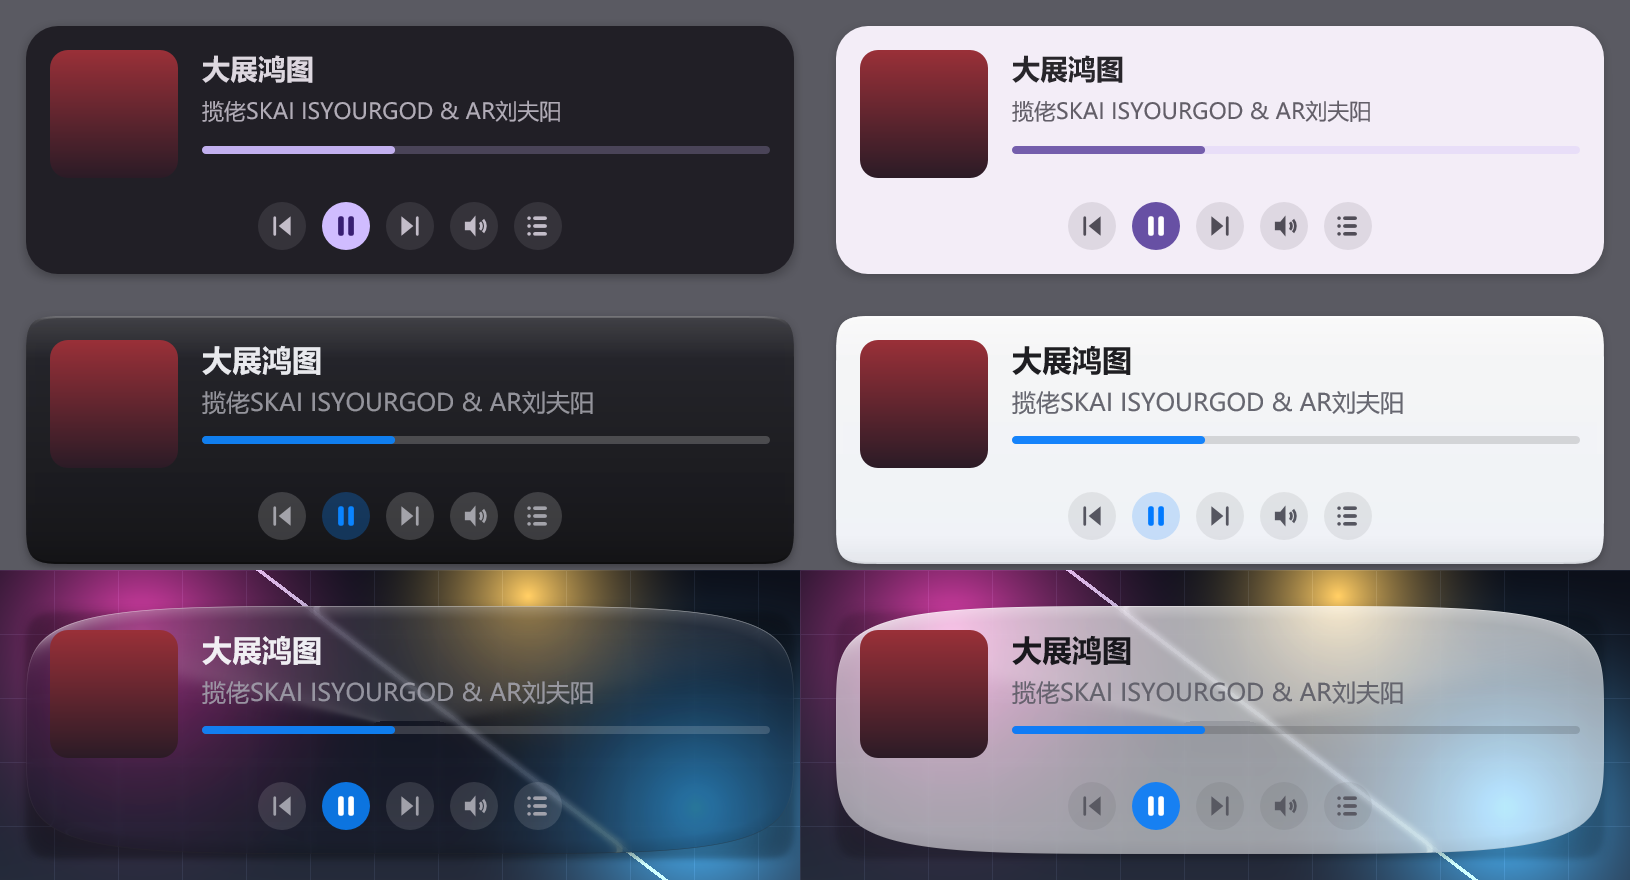
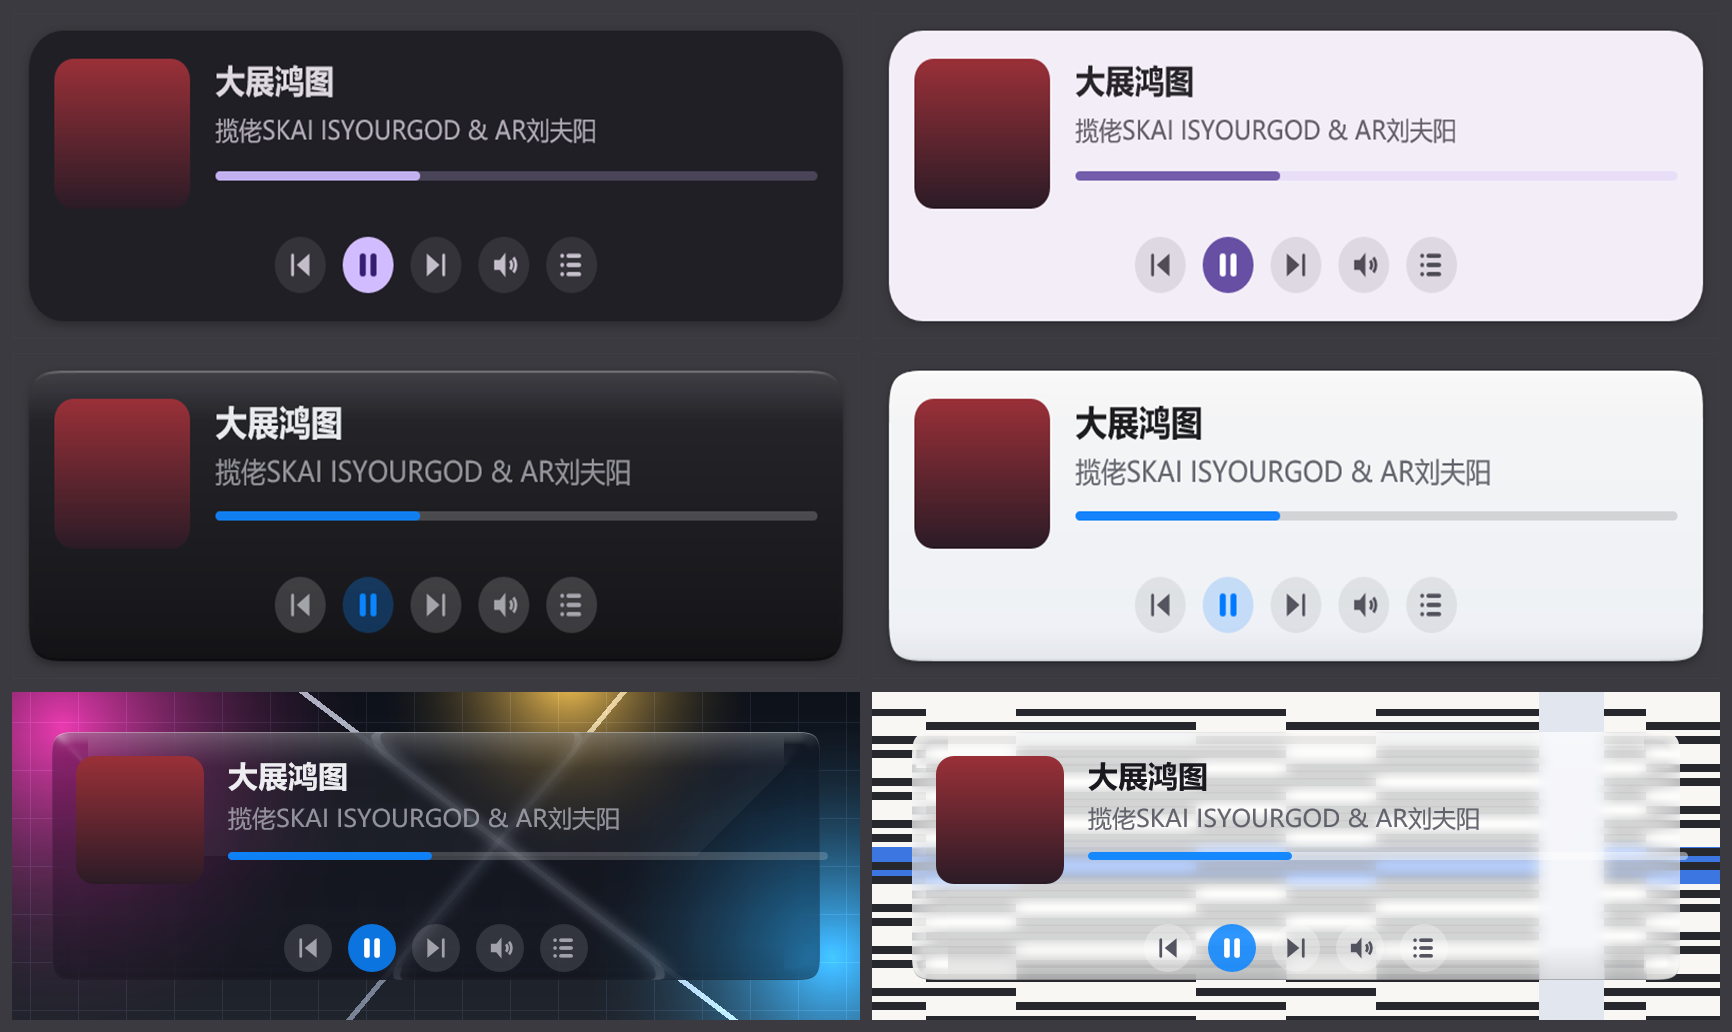
floating clouds: Liquid Glass is a panel, not a pill (squircle ignored the radius)
The glass card rendered as a stadium: straight edges were nowhere to be seen and
the ends were semicircles. The cause was geometric, not a taste setting.
glass_lens.h::shape_at() implemented the "squircle" as a single superellipse over
the whole half-extents (|X|^5 + |Y|^5 = 1) and never read its `rad` argument, so
on a 400x140 card the curvature ran along the entire side and the silhouette was
an ellipse. glass_card.h already did it correctly (straight edges, superellipse
arcs confined to the radius), which also meant the lens and the static fallback
were drawing two different shapes.

shape_at() now uses the corner-radius form: flat edges, and |u|^n + |v|^n = 1
inside the rad x rad corner box, with the first-order distance and normal taken
from that implicit surface. The two modules now agree on the silhouette.

The glass corner is 18px (was 28): the card is 140px tall, so 28 read as half the
height. 18 keeps it a panel - macOS uses ~10-12 for windows and roughly that for
Dock tiles; the Dock is not a stadium either.

Transparency is untouched: the material is still the captured backdrop, blurred
and refracted by the edge band, with polarity measured from the backdrop
(9.18:1 dark / 10.49:1 bright in the probe's runs).

Previews regenerated from the same probe, so imgs/LiquidGlass/* and the hero now
show the panel.

diff --git a/foo_floating_clouds/skin_tokens.h b/foo_floating_clouds/skin_tokens.h
@@ -317,7 +317,9 @@ constexpr SkinTokens liquid_glass_skin = {
     0x000000, 0.40f,                 // card_rim_shade   lens needs a hard rim)
     0xFFFFFF, 0.16f, 0.30f,          // card_gloss
     0x000000, 0.12f, 0.82f,          // card_depth
-    28.0f,                           // corner_card
+    18.0f,                           // corner_card (a panel, not a pill: the
+                                     //  Dock and macOS windows sit well under
+                                     //  half the height)
     8.0f,                            // shadow_inset
     0.26f, 4,                        // ambient shadow
     0.14f, 1,                        // contact shadow
@@ -351,57 +353,3 @@ constexpr SkinTokens liquid_glass_skin = {
     0.90f,                           // lens_specular
 };
 
-// Liquid Glass (light): the same lens over a bright backdrop. The veil is white
-// and its gain is NEGATIVE - over an already-bright backdrop a white veil would
-// only wash the text out, so the material lifts the dark areas instead.
-constexpr SkinTokens liquid_glass_skin_light = {
-    0xF3F4F8,                        // surface (opaque fallback / Hwnd)
-    0xE9EAF0,                        // surface_high
-    0xDEE0E8,                        // surface_highest
-    0x101014,                        // on_surface
-    0x55555F,                        // on_surface_variant
-    0x007AFF,                        // primary (system blue, light)
-    0xFF2D55,                        // tertiary
-    0xFF3B30,                        // error
-    0xFFFFFF,                        // on_button_active
-    0x000000, 0.06f,                 // button_fill
-    0x007AFF, 0.85f,                 // button_fill_active (white glyph needs a
-                                     // solid enough accent under it)
-    0x000000, 0.14f,                 // progress_track
-    true,                            // glass (static fallback material)
-    true,                            // superellipse
-    0xFFFFFF, 0.90f,                 // card_fill_top (fallback only)
-    0xEDF1F7, 0.95f,                 // card_fill_bottom
-    0xFFFFFF, 0.80f,                 // card_rim_light
-    0x000000, 0.10f,                 // card_rim_shade
-    0xFFFFFF, 0.35f, 0.26f,          // card_gloss
-    0x000000, 0.05f, 0.86f,          // card_depth
-    28.0f,                           // corner_card
-    8.0f,                            // shadow_inset
-    0.16f, 4,                        // ambient shadow
-    0.10f, 1,                        // contact shadow
-    3.0f,                            // shadow_offset_y
-    0.08f,                           // hover_state
-    0.12f,                           // pressed_state
-    15.0f,                           // title_size
-    12.0f,                           // artist_size
-    10.0f,                           // small_size
-    true,                            // glass_backdrop
-    18.0f,                           // lens_width
-    10.0f,                           // lens_power
-    0.09f,                           // lens_dispersion
-    4.0f,                            // lens_frost
-    0xFFFFFF,                        // lens_tint (white veil: dark ink needs a
-    0.58f,                           // lens_tint_alpha    light card, always)
-    0.12f,                           // lens_tint_gain
-    1.08f,                           // lens_saturation
-    0.94f,                           // lens_alpha
-    false,                           // adaptive_ink (light glass never flips)
-    0.50f,                           // ink_threshold (unused)
-    0x101014,                        // on_surface_bright (same as on_surface)
-    0x55555F,                        // on_surface_variant_bright
-    0xFFFFFF,                        // lens_tint_bright (unused)
-    0.58f,                           // lens_tint_bright_alpha
-    0.12f,                           // lens_tint_bright_gain
-    0.75f,                           // lens_specular
-};

diff --git a/foo_floating_clouds/styles/glass_lens.h b/foo_floating_clouds/styles/glass_lens.h
@@ -231,10 +231,10 @@ inline void sample3(const uint32_t* px, int w, int h, float x, float y,
 // ---------------------------------------------------------------------------
 // Silhouette: signed distance (px, positive inside) + outward unit normal.
 //
-// Two shapes, matching glass_card.h: a plain rounded rect (circular corners)
-// and a superellipse ("squircle") of exponent 5, which is what the glass skins
-// use. Both are exact enough inside the lens band, which is all this material
-// reads: the band is <= 20 px while the radius is >= 20 px.
+// Two shapes, matching glass_card.h: a plain rounded rect (circular corners) and
+// a rounded rect whose corners are superellipse arcs (exponent 5) inside the
+// corner radius, which is what the glass skins use. Both are exact enough inside
+// the lens band, which is all this material reads.
 // ---------------------------------------------------------------------------
 struct ShapeHit {
     float d = -1.0f;    // signed distance, positive inside
@@ -246,24 +246,32 @@ inline ShapeHit shape_at(float x, float y, float cx, float cy, float a, float b,
                          float rad, bool squircle, float squircle_n)
 {
     ShapeHit out;
-    if (squircle) {
-        const float X = (x - cx) / a;
-        const float Y = (y - cy) / b;
-        const float ax = std::fabs(X);
-        const float ay = std::fabs(Y);
-        const float ax2 = ax * ax, ay2 = ay * ay;
-        const float ax4 = ax2 * ax2, ay4 = ay2 * ay2;
-        const float F = ax4 * ax + ay4 * ay - 1.0f;
-        // Gradient of the implicit surface, then first-order distance and
-        // normal. Exact on the boundary, good enough just inside it.
-        float gx = squircle_n * ax4 * (X < 0.0f ? -1.0f : 1.0f) / a;
-        float gy = squircle_n * ay4 * (Y < 0.0f ? -1.0f : 1.0f) / b;
-        const float g = std::sqrt(gx * gx + gy * gy);
-        if (g < 1e-6f) { out.d = 1e3f; return out; }
-        out.nx = gx / g;
-        out.ny = gy / g;
-        out.d = -F / g;
-        return out;
+    if (squircle && rad > 1e-3f) {
+        // Continuous corner confined to a rad x rad box, exactly like
+        // glass_card.h: straight edges, |u|^n + |v|^n = 1 inside the corner.
+        // (A superellipse spanning the whole half-extents - |X|^n + |Y|^n = 1 -
+        // is NOT the same shape: with a 400x140 card it curves along the entire
+        // side and reads as a stadium, which is why the card looked like a pill.)
+        const float qx = std::fabs(x - cx) - (a - rad);
+        const float qy = std::fabs(y - cy) - (b - rad);
+        if (qx > 0.0f && qy > 0.0f) {
+            const float u = qx / rad;
+            const float v = qy / rad;
+            const float pu = std::pow(u, squircle_n - 1.0f);
+            const float pv = std::pow(v, squircle_n - 1.0f);
+            const float F = u * pu + v * pv - 1.0f;          // < 0 inside
+            const float sx = (x < cx ? -1.0f : 1.0f);
+            const float sy = (y < cy ? -1.0f : 1.0f);
+            const float gu = squircle_n * pu * sx / rad;
+            const float gv = squircle_n * pv * sy / rad;
+            const float g = std::sqrt(gu * gu + gv * gv);
+            if (g < 1e-6f) { out.d = 1e3f; return out; }
+            out.nx = gu / g;
+            out.ny = gv / g;
+            out.d = -F / g;                                   // positive inside
+            return out;
+        }
+        // Straight part of an edge: the rounded-rect distance is exact there.
     }
 
     const float qx = std::fabs(x - cx) - (a - rad);

diff --git a/foo_floating_clouds/preferences.cpp b/foo_floating_clouds/preferences.cpp
@@ -317,6 +317,9 @@ private:
     void SetControls(const PrefsState& s);
     PrefsState ReadUI();
     void Commit();
+    // Colour mode is meaningless for Liquid Glass: show one disabled entry and
+    // leave the stored preference alone.
+    void RefreshColorModeCombo();
     bool HasChanged();
     void OnChanged();
     void UpdateOpacityLabel(int opacity);
@@ -375,7 +378,7 @@ void CMyPreferences::SetControls(const PrefsState& s)
     skin_combo.SetCurSel(skin);
 
     CComboBox mode_combo = GetDlgItem(IDC_COLOR_MODE);
-    refill_combo(mode_combo, (int)FloatingColorMode::Count, [](int i) { return tr_color_mode(static_cast<FloatingColorMode>(i)); });
+    RefreshColorModeCombo();
     int mode = s.color_mode;
     if (mode < 0 || mode >= (int)FloatingColorMode::Count) mode = DEFAULT_COLOR_MODE;
     mode_combo.SetCurSel(mode);
@@ -426,9 +429,13 @@ PrefsState CMyPreferences::ReadUI()
     combo = GetDlgItem(IDC_SKIN);
     sel = combo.GetCurSel();
     if (sel >= 0) s.skin = sel;
+    // Liquid Glass decides its own appearance from the backdrop, so the control
+    // is disabled there and the stored preference must survive untouched.
     combo = GetDlgItem(IDC_COLOR_MODE);
-    sel = combo.GetCurSel();
-    if (sel >= 0) s.color_mode = sel;
+    if (combo.IsWindowEnabled()) {
+        sel = combo.GetCurSel();
+        if (sel >= 0) s.color_mode = sel;
+    }
     combo = GetDlgItem(IDC_LANGUAGE);
     sel = combo.GetCurSel();
     if (sel >= 0) s.language = sel;
@@ -494,8 +501,36 @@ void CMyPreferences::OnStyleChanged(UINT, int, CWindow)
     FloatingCloudsWindow::apply_preferences(); // hot reload
 }
 
+void CMyPreferences::RefreshColorModeCombo()
+{
+    CComboBox mode = GetDlgItem(IDC_COLOR_MODE);
+    if (!mode) return;
+
+    CComboBox skin = GetDlgItem(IDC_SKIN);
+    const int sel = skin ? skin.GetCurSel() : -1;
+    const bool glass = (sel == (int)FloatingSkin::LiquidGlass);
+
+    if (glass) {
+        mode.ResetContent();
+        mode.AddString(tr_color_mode_glass());
+        mode.SetCurSel(0);
+        mode.EnableWindow(FALSE);
+        return;
+    }
+
+    mode.EnableWindow(TRUE);
+    int want = m_loaded.color_mode;
+    if (want < 0 || want >= (int)FloatingColorMode::Count) want = DEFAULT_COLOR_MODE;
+    refill_combo(mode, (int)FloatingColorMode::Count,
+                 [](int i) { return tr_color_mode(static_cast<FloatingColorMode>(i)); });
+    mode.SetCurSel(want);
+}
+
 void CMyPreferences::OnSkinChanged(UINT, int, CWindow)
 {
+    // Refresh the mode control BEFORE committing: switching to Liquid Glass must
+    // not overwrite the stored colour mode with the disabled entry's index.
+    RefreshColorModeCombo();
     Commit();
     FloatingCloudsWindow::apply_preferences(); // hot reload
 }
@@ -526,7 +561,7 @@ void CMyPreferences::ReloadLocalizedStrings()
     CComboBox skin_combo = GetDlgItem(IDC_SKIN);
     refill_combo(skin_combo, (int)FloatingSkin::Count, [](int i) { return tr_skin(static_cast<FloatingSkin>(i)); });
     CComboBox mode_combo = GetDlgItem(IDC_COLOR_MODE);
-    refill_combo(mode_combo, (int)FloatingColorMode::Count, [](int i) { return tr_color_mode(static_cast<FloatingColorMode>(i)); });
+    RefreshColorModeCombo();
 
     // Font combo item 0 follows the UI language; keep the selected face.
     CComboBox font_combo = GetDlgItem(IDC_FONT_FAMILY);

diff --git a/foo_floating_clouds/dynamic_color.h b/foo_floating_clouds/dynamic_color.h
@@ -262,52 +262,6 @@ inline SkinTokens scheme_mist(uint32_t seed, bool light)
     return t;
 }
 
-// The Liquid Glass material, tinted by the cover. Unlike MD3 and Mist the panel
-// is not a surface fill: it is a veil over a captured backdrop, so the hue has to
-// live in the veil (and in the static fallback fill), at a much lower chroma than
-// a tonal surface would take - a lift of colour in a transparent film reads as a
-// coloured gel, not as glass. The accents still come from the full-chroma scheme
-// so the controls keep their snap.
-inline SkinTokens scheme_liquid_glass(uint32_t seed, bool light)
-{
-    const SkinTokens& base = light ? liquid_glass_skin_light : liquid_glass_skin;
-    const Hcl p = hcl_of(seed);
-    const SkinTokens accent = scheme_md3(seed, light);
-    SkinTokens t = base;
-
-    const float film = light ? 0.30f : 0.45f;
-    auto f = [&](float tone) { return tone_of(p, film, tone); };
-    auto ink = [&](float tone) { return tone_of(p, 0.07f, tone); };
-
-    if (light) {
-        // A bright veil that carries a trace of the cover's hue.
-        t.lens_tint = f(97);
-        t.lens_tint_bright = t.lens_tint;
-        t.surface = f(95);              // Hwnd fallback / opaque fill
-        t.surface_high = f(92);
-        t.on_surface = ink(10);
-        t.on_surface_variant = ink(40);
-        t.card_fill_top = f(96);        // static frosted fallback
-        t.card_fill_bottom = f(92);
-    } else {
-        // A dark veil that carries a trace of the cover's hue, and the white veil
-        // the flipped (bright-backdrop) glass uses.
-        t.lens_tint = f(8);
-        t.lens_tint_bright = f(96);
-        t.surface = f(10);
-        t.surface_high = f(16);
-        t.on_surface = ink(96);
-        t.on_surface_variant = ink(78);
-        t.card_fill_top = f(12);
-        t.card_fill_bottom = f(7);
-    }
-
-    t.primary = accent.primary;
-    t.tertiary = accent.tertiary;
-    t.on_button_active = 0xFFFFFF;      // white glyph on the tinted capsule
-    return t;
-}
-
 // ------------------------------------------------------- album seed extraction
 // A small "what colour is this cover" pass: quantise to 24 hue bins, ignore
 // near-grey and near-black/white pixels (they carry no usable hue), then take

diff --git a/foo_floating_clouds/d2d_renderer.cpp b/foo_floating_clouds/d2d_renderer.cpp
@@ -513,10 +513,11 @@ bool D2DRenderer::ensure_lens_material(const D2D1_RECT_F& card)
 
 void D2DRenderer::rebuild_tokens()
 {
-    m_use_dynamic = m_album && m_album_seed != 0;
+    // Liquid Glass takes its colour from the backdrop, never from the cover, so
+    // the album mode does not apply to it.
+    m_use_dynamic = m_album && m_album_seed != 0 && m_skin != FloatingSkin::LiquidGlass;
     if (m_use_dynamic) {
         m_tokens = (m_skin == FloatingSkin::Mist) ? dyn::scheme_mist(m_album_seed, m_light)
-                 : (m_skin == FloatingSkin::LiquidGlass) ? dyn::scheme_liquid_glass(m_album_seed, m_light)
                  : dyn::scheme_md3(m_album_seed, m_light);
     }
     // The flipped-glass ink depends on the new base tokens.

diff --git a/foo_floating_clouds/skin_theme.h b/foo_floating_clouds/skin_theme.h
@@ -12,6 +12,12 @@
 
 inline const SkinTokens& get_skin_tokens(FloatingSkin skin, bool light)
 {
+    // Liquid Glass is one material, not a light/dark pair: its ink polarity is
+    // decided by the backdrop it measured (adaptive_ink), so the appearance
+    // setting must not change it. Ignoring `light` here is what makes the skin
+    // be the same glass whatever the colour mode says.
+    if (skin == FloatingSkin::LiquidGlass) return liquid_glass_skin;
+
     if (light) {
         return (skin == FloatingSkin::Mist) ? mist_skin_light : md3_skin_light;
     }

diff --git a/foo_floating_clouds/localization.h b/foo_floating_clouds/localization.h
@@ -47,6 +47,14 @@ inline const wchar_t* tr_skin(FloatingSkin s)
 }
 
 // Localized name of a color mode.
+// Liquid Glass has no appearance setting: it is one material whose colour comes
+// from whatever is behind the window, so the colour-mode control shows this
+// single, disabled entry instead of four meaningless choices.
+inline const wchar_t* tr_color_mode_glass()
+{
+    return tr(L"Follow backdrop", L"跟随背后内容");
+}
+
 inline const wchar_t* tr_color_mode(FloatingColorMode m)
 {
     switch (m) {
